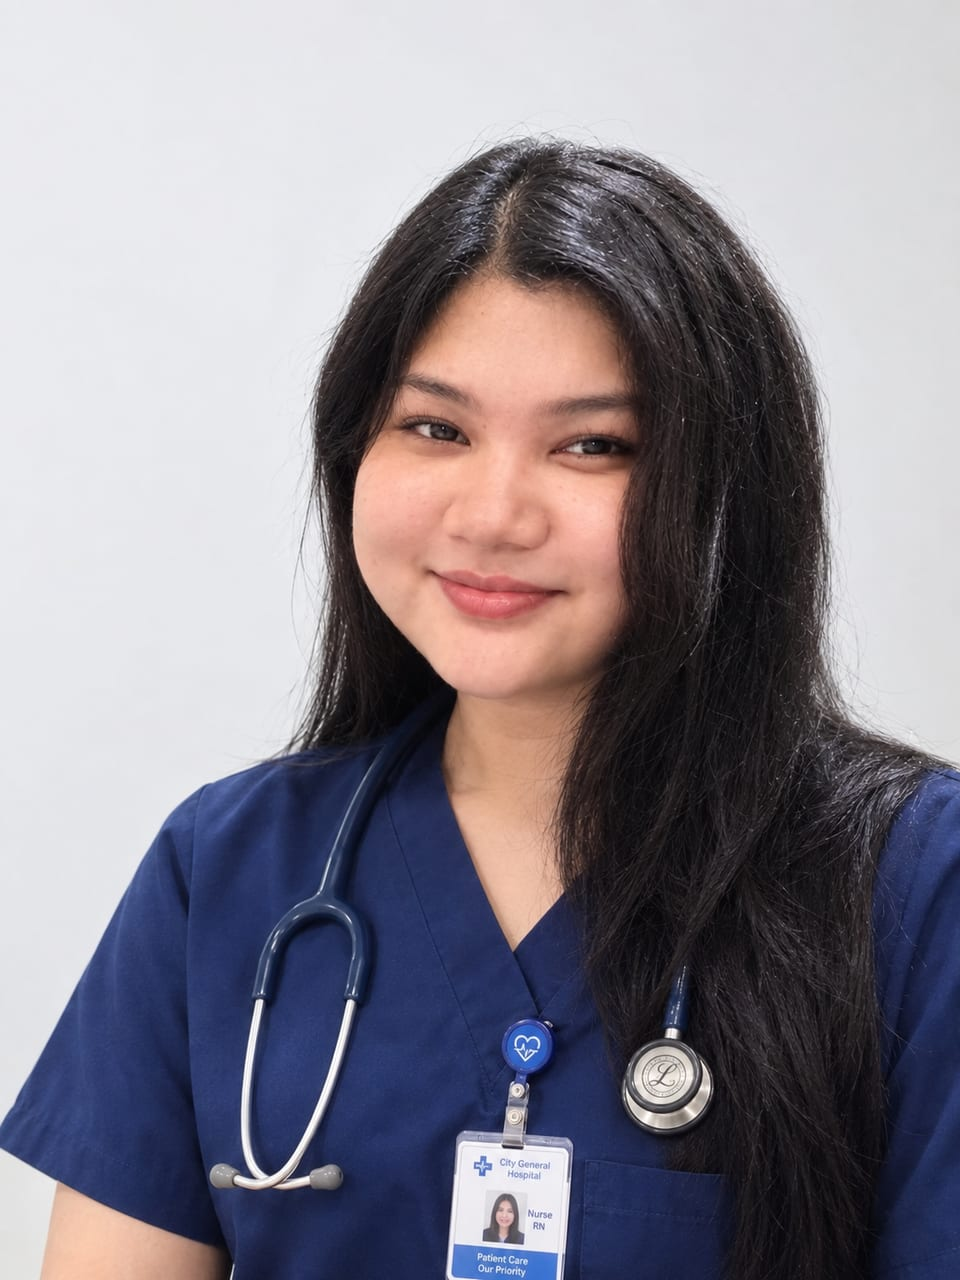
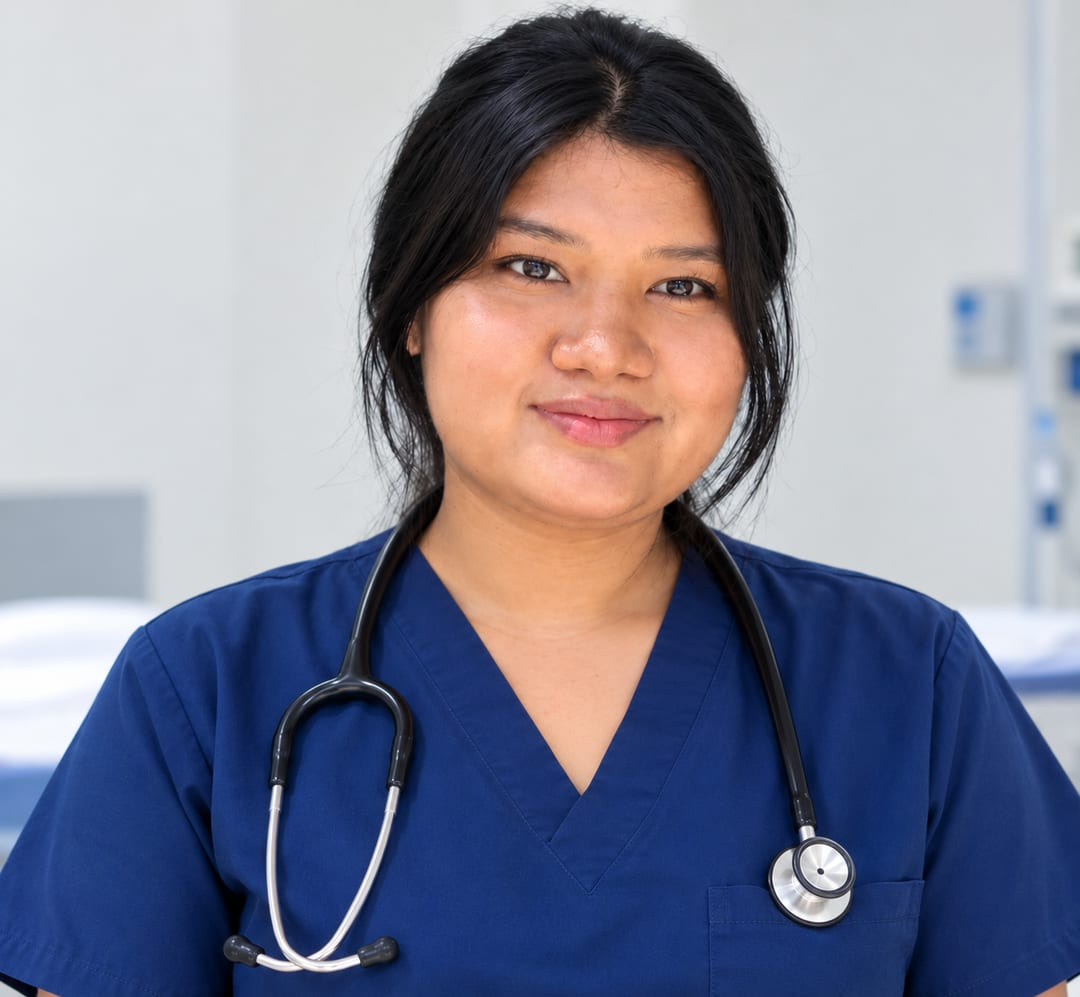
feat: use new hero portrait and adapt frame to square aspect
New photo is near-square (1305x1205) so the hero frame moves from 4:5
to aspect-square to avoid cropping. Optimized 1.80MB PNG to a 73KB JPG
(1080px, mozjpeg) via the one-off sharp script; same filename so no
config change needed.

🤖 Generated with Codebuff

diff --git a/src/sections/Hero/Portrait.tsx b/src/sections/Hero/Portrait.tsx
@@ -26,7 +26,9 @@ export function Portrait() {
         className="absolute -inset-4 -z-10 rounded-[2.5rem] bg-gradient-to-br from-sage-100 via-cream-100 to-teal-50"
       />
 
-      <div className="overflow-hidden rounded-[2rem] shadow-card ring-1 ring-charcoal-900/8 aspect-[4/5]">
+      {/* Square frame: matches the near-square source photo (1080x997) so
+          nothing important is cropped, and the block stays compact on mobile. */}
+      <div className="overflow-hidden rounded-[2rem] shadow-card ring-1 ring-charcoal-900/8 aspect-square">
         {showFallback ? (
           <div
             role="img"
